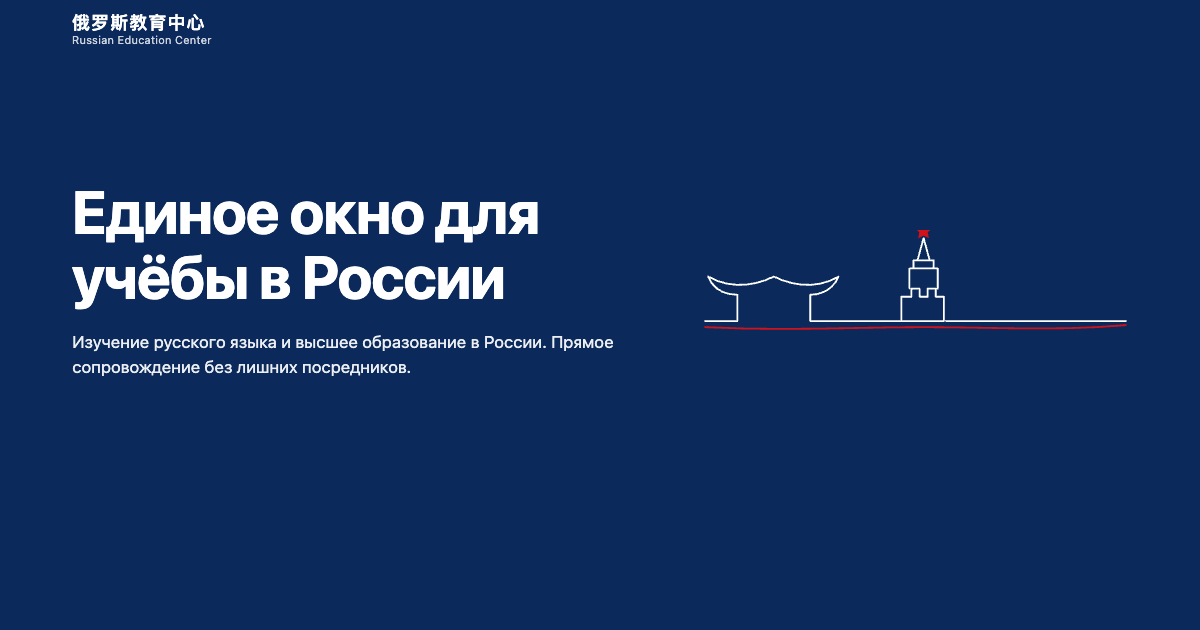
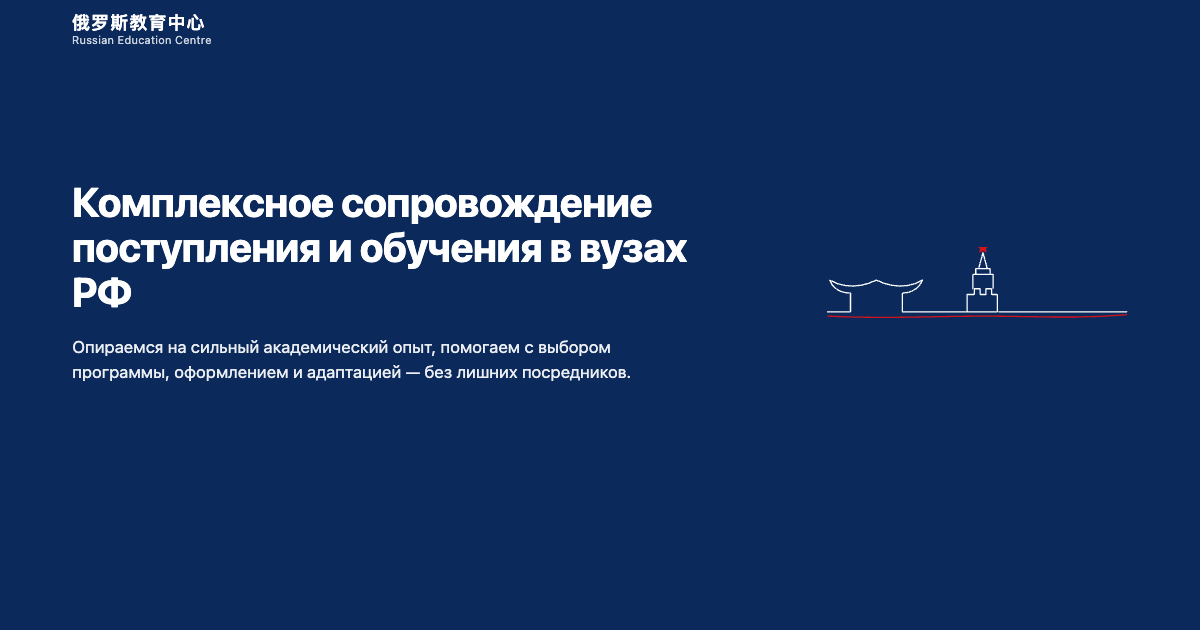
Client edits, round 1: texts, admission tabs, partnership, catalog

Changed region(s): [[0.0617, 0.3016, 0.5858, 0.4825], [0.5858, 0.3619, 0.9558, 0.5429], [0.0617, 0.5127, 0.5242, 0.6032]]

diff --git a/src/style.css b/src/style.css
@@ -39,8 +39,9 @@ ul,ol{padding:0;list-style:none}
 .logo b{font-size:18px;letter-spacing:.06em;font-weight:700}
 .logo span{font-size:11px;opacity:.8;letter-spacing:.02em}
 .bar nav{display:none;gap:22px;margin-left:auto}
-.bar nav a{color:#fff;text-decoration:none;font-size:14px;opacity:.88;white-space:nowrap}
-.bar nav a:hover{opacity:1;text-decoration:underline;text-underline-offset:4px}
+.bar nav a,.navbtn{color:#fff;text-decoration:none;font-size:14px;opacity:.88;white-space:nowrap;background:none;border:0;padding:0;cursor:pointer}
+.bar nav a:hover,.navbtn:hover{opacity:1;text-decoration:underline;text-underline-offset:4px}
+.footbtn{background:none;border:0;padding:0;color:#fff;font-size:15px;font-weight:600;text-decoration:underline;text-underline-offset:4px;cursor:pointer;min-height:44px}
 .bar .btn{margin-left:auto}
 
 /* hero */
@@ -50,7 +51,7 @@ ul,ol{padding:0;list-style:none}
 .line .star{fill:var(--accent)}
 .draw{stroke-dasharray:1400;stroke-dashoffset:1400;animation:draw 2.4s .15s ease forwards}
 @keyframes draw{to{stroke-dashoffset:0}}
-.hero h1{font-size:clamp(30px,8.2vw,60px);line-height:1.08;letter-spacing:-.02em;max-width:13em}
+.hero h1{font-size:clamp(28px,7.4vw,52px);line-height:1.1;letter-spacing:-.02em;max-width:16em}
 .lead{margin-top:14px;font-size:17px;line-height:1.5;max-width:34em;opacity:.92}
 .hero .btn{margin-top:22px}
 .stats{display:grid;gap:10px;margin-top:30px}
@@ -84,17 +85,29 @@ h2{font-size:clamp(24px,5.6vw,38px);line-height:1.15;letter-spacing:-.015em;max-
 .unis{display:grid;gap:10px;margin-top:16px}
 .uni{background:var(--card);border-radius:var(--r);padding:18px;display:flex;flex-direction:column;gap:6px}
 .uni h3{font-size:16px;line-height:1.35}
+.uni h3.zh{font-size:20px;line-height:1.3;letter-spacing:0;font-weight:700}
+.uni .en{font-size:14px;color:var(--ink-2);margin-top:-2px}
 .uni .meta{font-size:14px;color:var(--ink-2)}
 .uni .btn{margin-top:auto;align-self:flex-start}
 .unis:not(.all) .uni:not([data-top]){display:none}
 .unis .uni.off{display:none!important}
 .empty{margin-top:16px;color:var(--ink-2)}
-.more-cell{display:flex;align-items:center}
-.unis.filtered .more-cell{display:none}
+.more-wrap{display:flex;justify-content:center;margin-top:20px}
 
-.steps ol{counter-reset:s;display:grid;gap:10px;margin-top:22px}
-.steps li{counter-increment:s;background:var(--card);border-radius:var(--r);padding:18px 18px 18px 64px;position:relative;font-size:17px;font-weight:600;line-height:1.35;min-height:64px;display:flex;align-items:center}
-.steps li::before{content:counter(s);position:absolute;left:16px;top:50%;transform:translateY(-50%);width:34px;height:34px;border-radius:50%;background:var(--blue);color:#fff;display:grid;place-items:center;font-size:15px}
+.tabs{display:inline-flex;gap:4px;margin-top:20px;background:var(--card);border-radius:999px;padding:4px;max-width:100%}
+.tabs [role=tab]{border:0;background:none;min-height:42px;padding:0 18px;border-radius:999px;font-size:15px;font-weight:600;color:var(--ink-2);cursor:pointer;touch-action:manipulation;transition:background-color .2s,color .2s}
+.tabs [role=tab][aria-selected=true]{background:var(--blue);color:#fff}
+.tabs [role=tab]:active{transform:scale(.97)}
+.panel-h{margin-top:28px;font-size:20px}
+.has-tabs .panel-h{display:none}
+.panel:focus-visible{outline-offset:6px;border-radius:var(--r)}
+.panel[hidden]{display:none}
+.panel:not([hidden]) ol{animation:rise .35s cubic-bezier(.2,.7,.2,1) both}
+.steps ol{counter-reset:s;display:grid;gap:10px;margin-top:18px}
+.steps li{counter-increment:s;background:var(--card);border-radius:var(--r);padding:18px 18px 18px 66px;position:relative;line-height:1.4}
+.steps li b{display:block;font-size:17px;line-height:1.3}
+.steps li span{display:block;margin-top:6px;font-size:15px;color:var(--ink-2)}
+.steps li::before{content:counter(s);position:absolute;left:16px;top:16px;width:34px;height:34px;border-radius:50%;background:var(--blue);color:#fff;display:grid;place-items:center;font-size:15px;font-weight:600}
 
 /* form */
 .contact{padding-bottom:56px}
@@ -152,10 +165,11 @@ body.locked{overflow:hidden}
   .why ul{grid-template-columns:repeat(4,1fr);gap:16px}
   .why li{min-height:140px;display:flex;align-items:flex-end;font-size:20px}
   .unis{grid-template-columns:repeat(2,1fr);gap:14px}
-  .more-cell{justify-content:flex-start}
-  .steps ol{grid-template-columns:repeat(5,1fr);gap:14px}
-  .steps li{flex-direction:column;align-items:flex-start;justify-content:flex-end;padding:66px 18px 20px;min-height:180px}
-  .steps li::before{top:18px;transform:none;left:18px}
+
+  .steps ol{gap:12px}
+  .steps li{display:grid;grid-template-columns:minmax(0,.9fr) minmax(0,1.4fr);column-gap:32px;align-items:baseline;padding:22px 28px 22px 76px}
+  .steps li span{margin-top:0;font-size:16px}
+  .steps li::before{left:24px;top:18px}
   .contact{padding-bottom:96px}
   .formbox{padding:36px}
   .modal{margin:auto;border-radius:24px}
@@ -165,13 +179,13 @@ body.locked{overflow:hidden}
   .bar nav{display:flex}
   .bar .btn{margin-left:0}
   .hero{padding-top:56px}
-  .hero .wrap{display:grid;grid-template-columns:minmax(0,1.15fr) minmax(0,.85fr);column-gap:56px;align-items:center}
+  .hero .wrap{display:grid;grid-template-columns:minmax(0,1.4fr) minmax(0,.6fr);column-gap:48px;align-items:center}
+  .hero h1{font-size:clamp(38px,3.4vw,48px)}
   .hero .line{grid-column:2;grid-row:1/4;max-width:none;margin:0}
   .hero h1,.hero .lead,.hero .btn{grid-column:1;justify-self:start}
   .stats{grid-column:1/-1}
   .unis{grid-template-columns:repeat(3,1fr)}
-  .unis:not(.all) .more-cell{grid-column:span 2}
-  .unis.all .more-cell{grid-column:1/-1}
+
   .contact .wrap{display:flex;justify-content:center}
 }
 /* first screen builds up on load */

diff --git a/src/app.js b/src/app.js
@@ -20,7 +20,7 @@
     });
     if (filtered) list.classList.add('all');
     else list.classList.toggle('all', more.getAttribute('aria-expanded') === 'true');
-    list.classList.toggle('filtered', filtered);
+    more.parentNode.hidden = filtered;
     list.classList.remove('swap'); void list.offsetWidth; list.classList.add('swap');
     empty.hidden = shown > 0;
   }
@@ -41,6 +41,35 @@
     applyFilter();
     if (!open) $('#universities').scrollIntoView();
   });
+
+  /* "Как поступить" / "Как мы работаем" tabs; without script both lists simply show */
+  var tabs = $$('[role=tab]');
+  function selectTab(tab, focus) {
+    tabs.forEach(function (t) {
+      var on = t === tab, panel = document.getElementById(t.getAttribute('aria-controls'));
+      t.setAttribute('aria-selected', String(on));
+      t.tabIndex = on ? 0 : -1;
+      panel.hidden = !on;
+      if (on) $$('.pre', panel).forEach(function (el) { el.classList.remove('pre'); });
+    });
+    if (focus) tab.focus();
+  }
+  if (tabs.length) {
+    $('.tabs').hidden = false;
+    document.documentElement.classList.add('has-tabs');
+    tabs.forEach(function (t, i) {
+      t.addEventListener('click', function () { selectTab(t); });
+      t.addEventListener('keydown', function (e) {
+        var k = e.key, n = tabs.length, j = k === 'ArrowRight' ? (i + 1) % n : k === 'ArrowLeft' ? (i + n - 1) % n : k === 'Home' ? 0 : k === 'End' ? n - 1 : -1;
+        if (j < 0) return;
+        e.preventDefault();
+        selectTab(tabs[j], true);
+      });
+    });
+    selectTab(tabs[0]);
+    // the menu item "Как поступить" always opens the first tab
+    $$('a[href="#admission"]').forEach(function (a) { a.addEventListener('click', function () { selectTab(tabs[0]); }); });
+  }
 
   /* entrance for blocks below the first screen; content stays visible without script or observer */
   if ('IntersectionObserver' in window && !matchMedia('(prefers-reduced-motion: reduce)').matches) {
@@ -101,12 +130,15 @@
         .then(function () { btn.disabled = false; });
     });
     return {
-      reset: function (dir) {
+      reset: function (dir, label) {
         form.reset(); form.hidden = false; $('.ok', box).hidden = true; status.hidden = true; started = Date.now();
         $$('.fld', form).forEach(function (f) { f.classList.remove('bad'); });
         var sel = form.direction, picked = $('.picked', box);
         if (picked) picked.textContent = dir ? (dir.indexOf(':') > 0 && dir.indexOf(':') < 6 ? dir : form.getAttribute('data-picked') + dir) : '';
         sel.closest('.fld').hidden = !!dir; // the chip above already shows the choice
+        var lab = $('label[data-default]', form);
+        lab.textContent = (label || lab.getAttribute('data-default')) + ' *';
+        form.contact.setAttribute('autocomplete', label ? 'email' : 'tel');
         if (dir) {
           var has = $$('option', sel).some(function (o) { return o.value === dir || o.text === dir; });
           if (!has) { var o = document.createElement('option'); o.text = dir; o.setAttribute('data-added', ''); sel.add(o); }
@@ -139,7 +171,7 @@
   $$('[data-open]').forEach(function (b) {
     b.addEventListener('click', function () {
       opener = b;
-      mform.reset(b.getAttribute('data-open'));
+      mform.reset(b.getAttribute('data-open'), b.getAttribute('data-label'));
       if (typeof modal.showModal === 'function') {
         modal.showModal();
         document.body.classList.add('locked');
